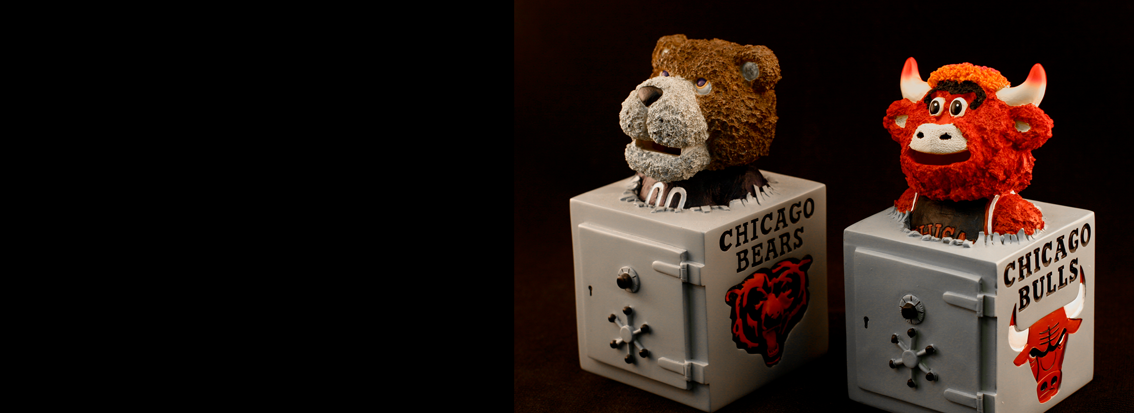
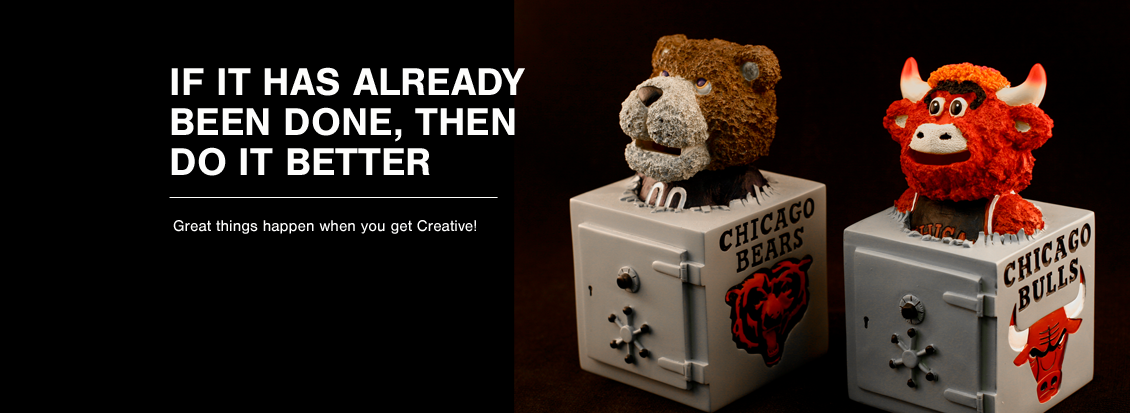
Update
Update slider images
Pre - jquery pop up effect

diff --git a/app/assets/stylesheets/application.css.scss b/app/assets/stylesheets/application.css.scss
@@ -302,7 +302,7 @@ line-height: 1;
 #timeline{
   width:65.6em;
   height:12.8em;
-  margin-top:-2em;
+  margin-top:1em;
   margin-right: 8em;
   margin-left: 5em;
   background:image_url('timeline_background.png');
